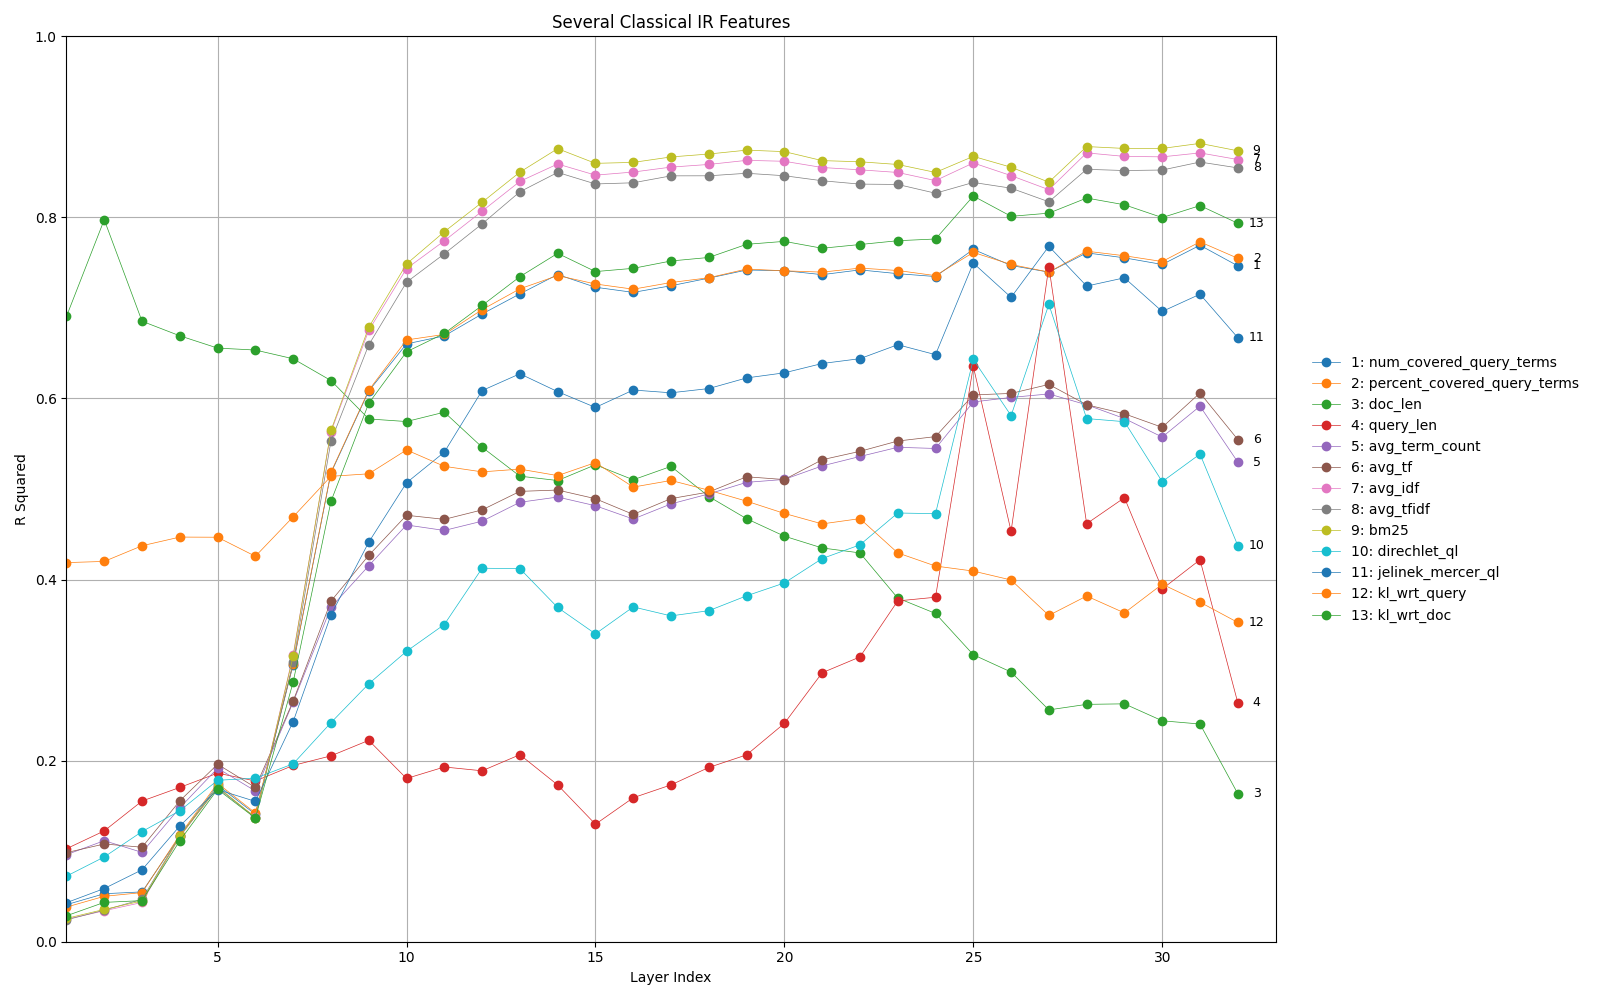
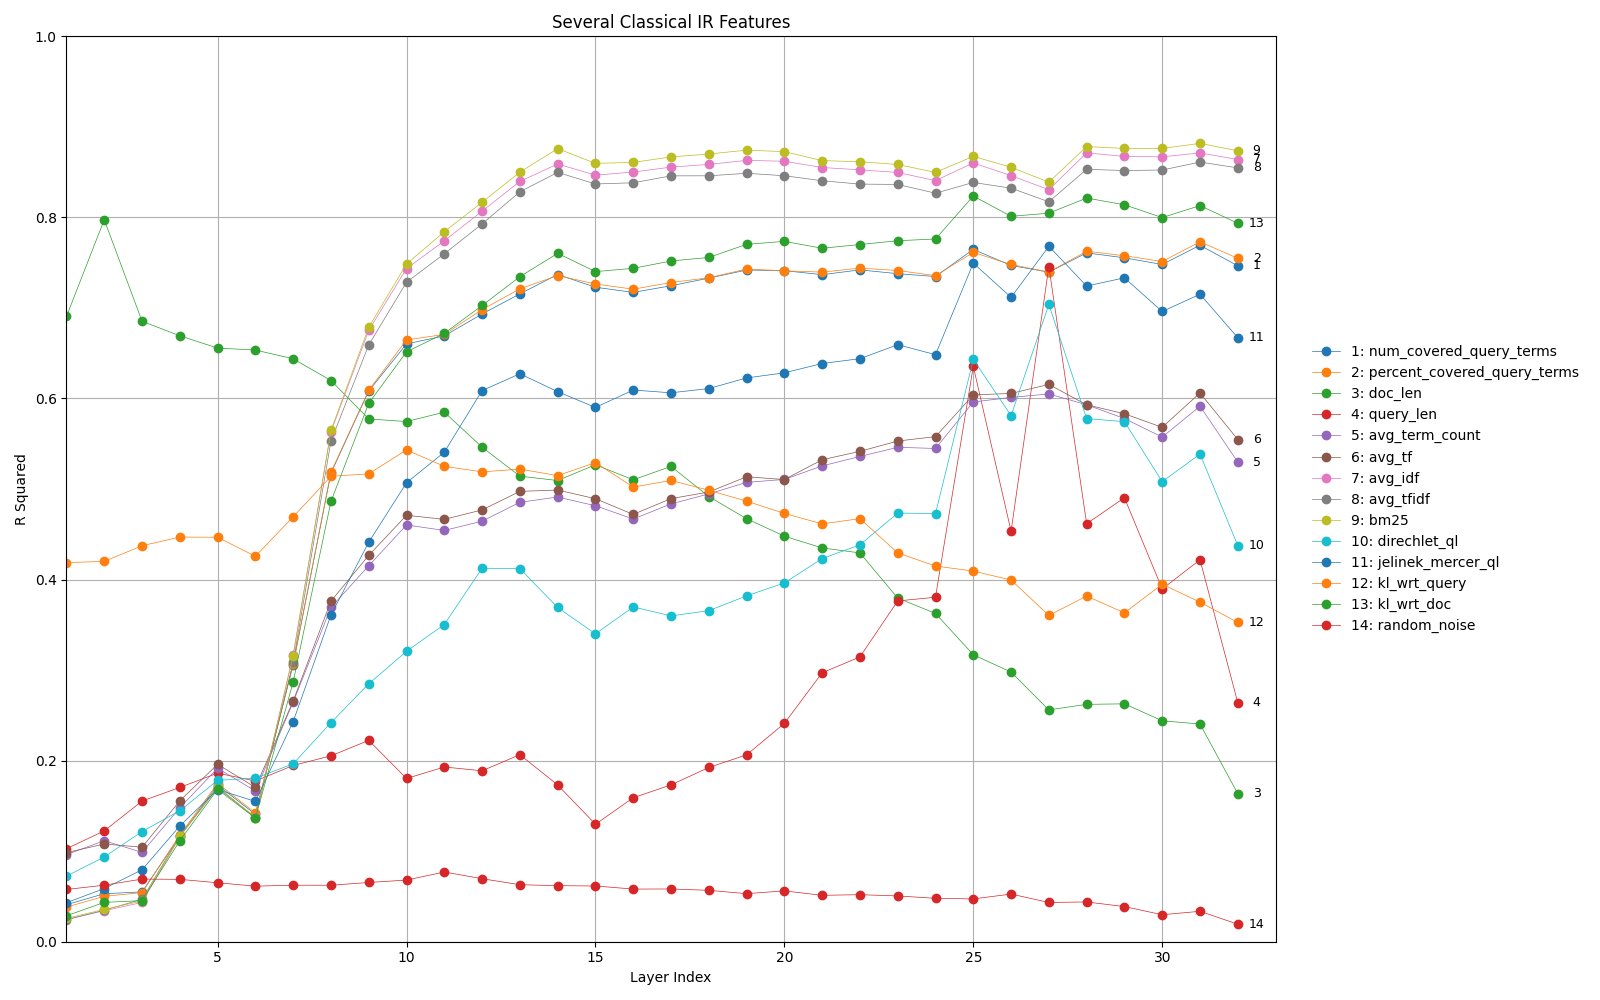
added random noise as a baseline feature for experiment 1 to justify correct data fit

diff --git a/data/src/compute_features.py b/data/src/compute_features.py
@@ -1,6 +1,7 @@
 import math
 from util import tokenize
 from collection_statistics import collection_doc_count, collection_term_count, collection_doc_freq_table, collection_term_freq_table
+import random
 from typing import Callable
 
 feature_names: set[str] = [
@@ -20,7 +21,8 @@ feature_names: set[str] = [
     "direchlet_ql",                     # query likelihood score with direchlet smoothing
     "jelinek_mercer_ql",                # query likelihood score with jelinek-mercer smoothing
     "kl_wrt_query",                     # kl divergence using query for true distribution and smoothed doc for approx
-    "kl_wrt_doc"                        # kl divergence using doc for true distribution and smoothed query for approx
+    "kl_wrt_doc",                       # kl divergence using doc for true distribution and smoothed query for approx
+    "random_noise"                      # a random sample to detect overfitting
 ]
 
 def num_covered_query_terms(doc_terms: list[str], query_terms: list[str]) -> float:
@@ -170,6 +172,9 @@ def kl_wrt_query(doc_terms: list[str], query_terms: list[str]) -> float:
 def kl_wrt_doc(doc_terms: list[str], query_terms: list[str]) -> float:
     return kl_wrt_query(query_terms, doc_terms)
 
+def random_noise(doc_terms: list[str], query_terms: list[str]) -> float:
+    return random.uniform(-10.0, 10.0)
+
 compute_feature: dict[str, Callable[[list[str], list[str]], float]] = {
     "num_covered_query_terms": num_covered_query_terms,
     "percent_covered_query_terms": percent_covered_query_terms,
@@ -187,7 +192,8 @@ compute_feature: dict[str, Callable[[list[str], list[str]], float]] = {
     "direchlet_ql": direchlet_ql,
     "jelinek_mercer_ql": jelinek_mercer_ql,
     "kl_wrt_query": kl_wrt_query,
-    "kl_wrt_doc": kl_wrt_doc
+    "kl_wrt_doc": kl_wrt_doc,
+    "random_noise": random_noise
 }
 
 def compute_features(doc: str, query: str) -> dict[str, float]:

diff --git a/experiments/1/src/main.py b/experiments/1/src/main.py
@@ -29,7 +29,8 @@ feature_names: set[str] = [
     "direchlet_ql",                     # query likelihood score with direchlet smoothing
     "jelinek_mercer_ql",                # query likelihood score with jelinek-mercer smoothing
     "kl_wrt_query",                     # kl divergence using query for true distribution and smoothed doc for approx
-    "kl_wrt_doc"                        # kl divergence using doc for true distribution and smoothed query for approx
+    "kl_wrt_doc",                       # kl divergence using doc for true distribution and smoothed query for approx
+    "random_noise"                      # a random sample to detect overfitting
 ]
 
 ridge_alpha = 100000.0
